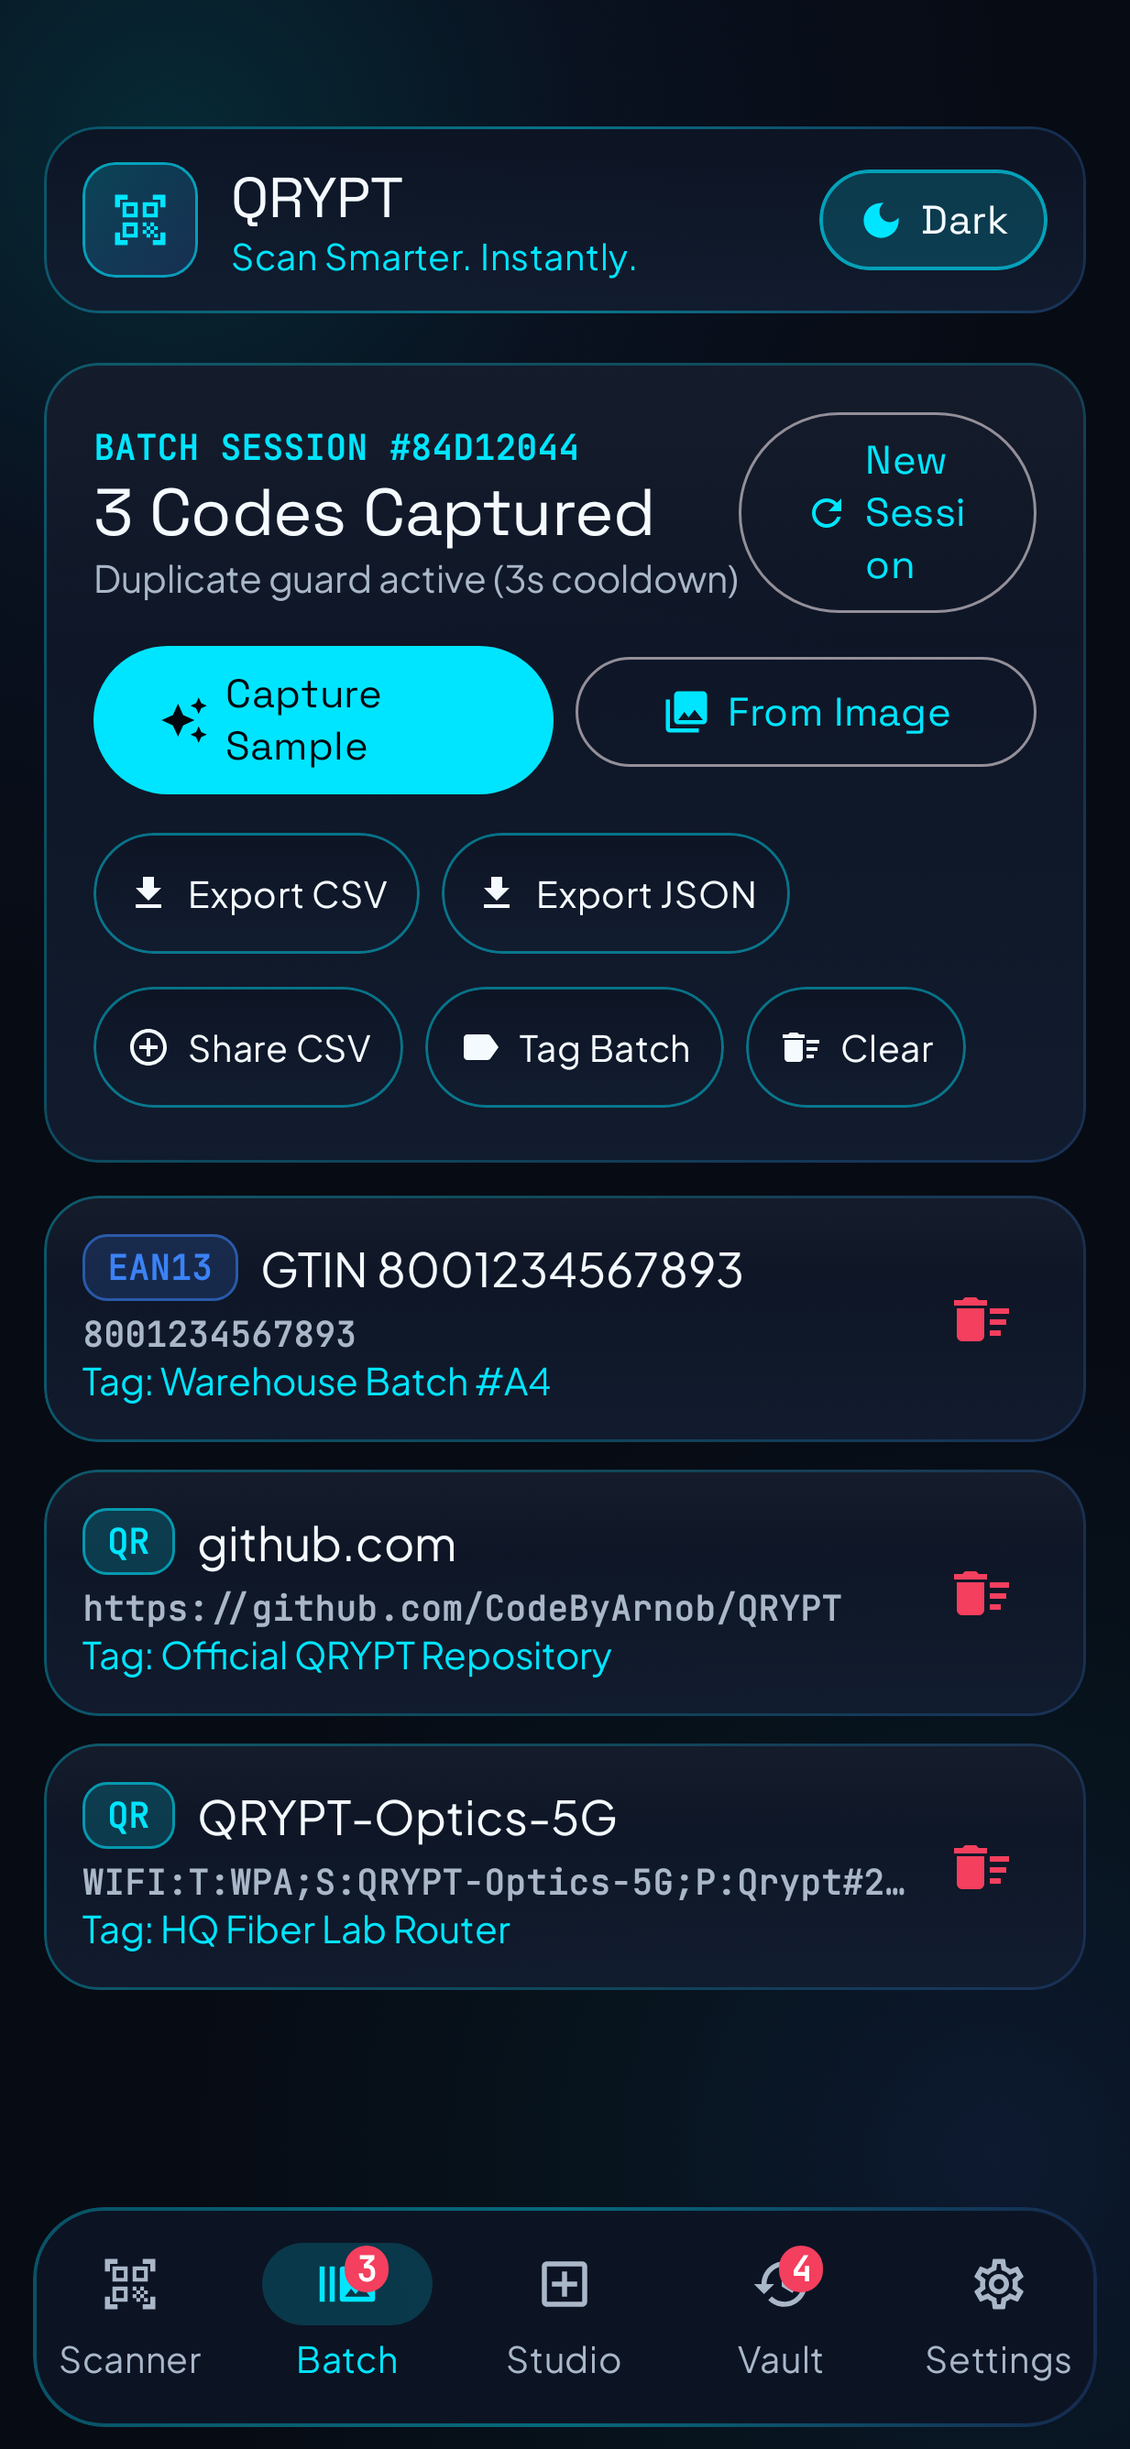
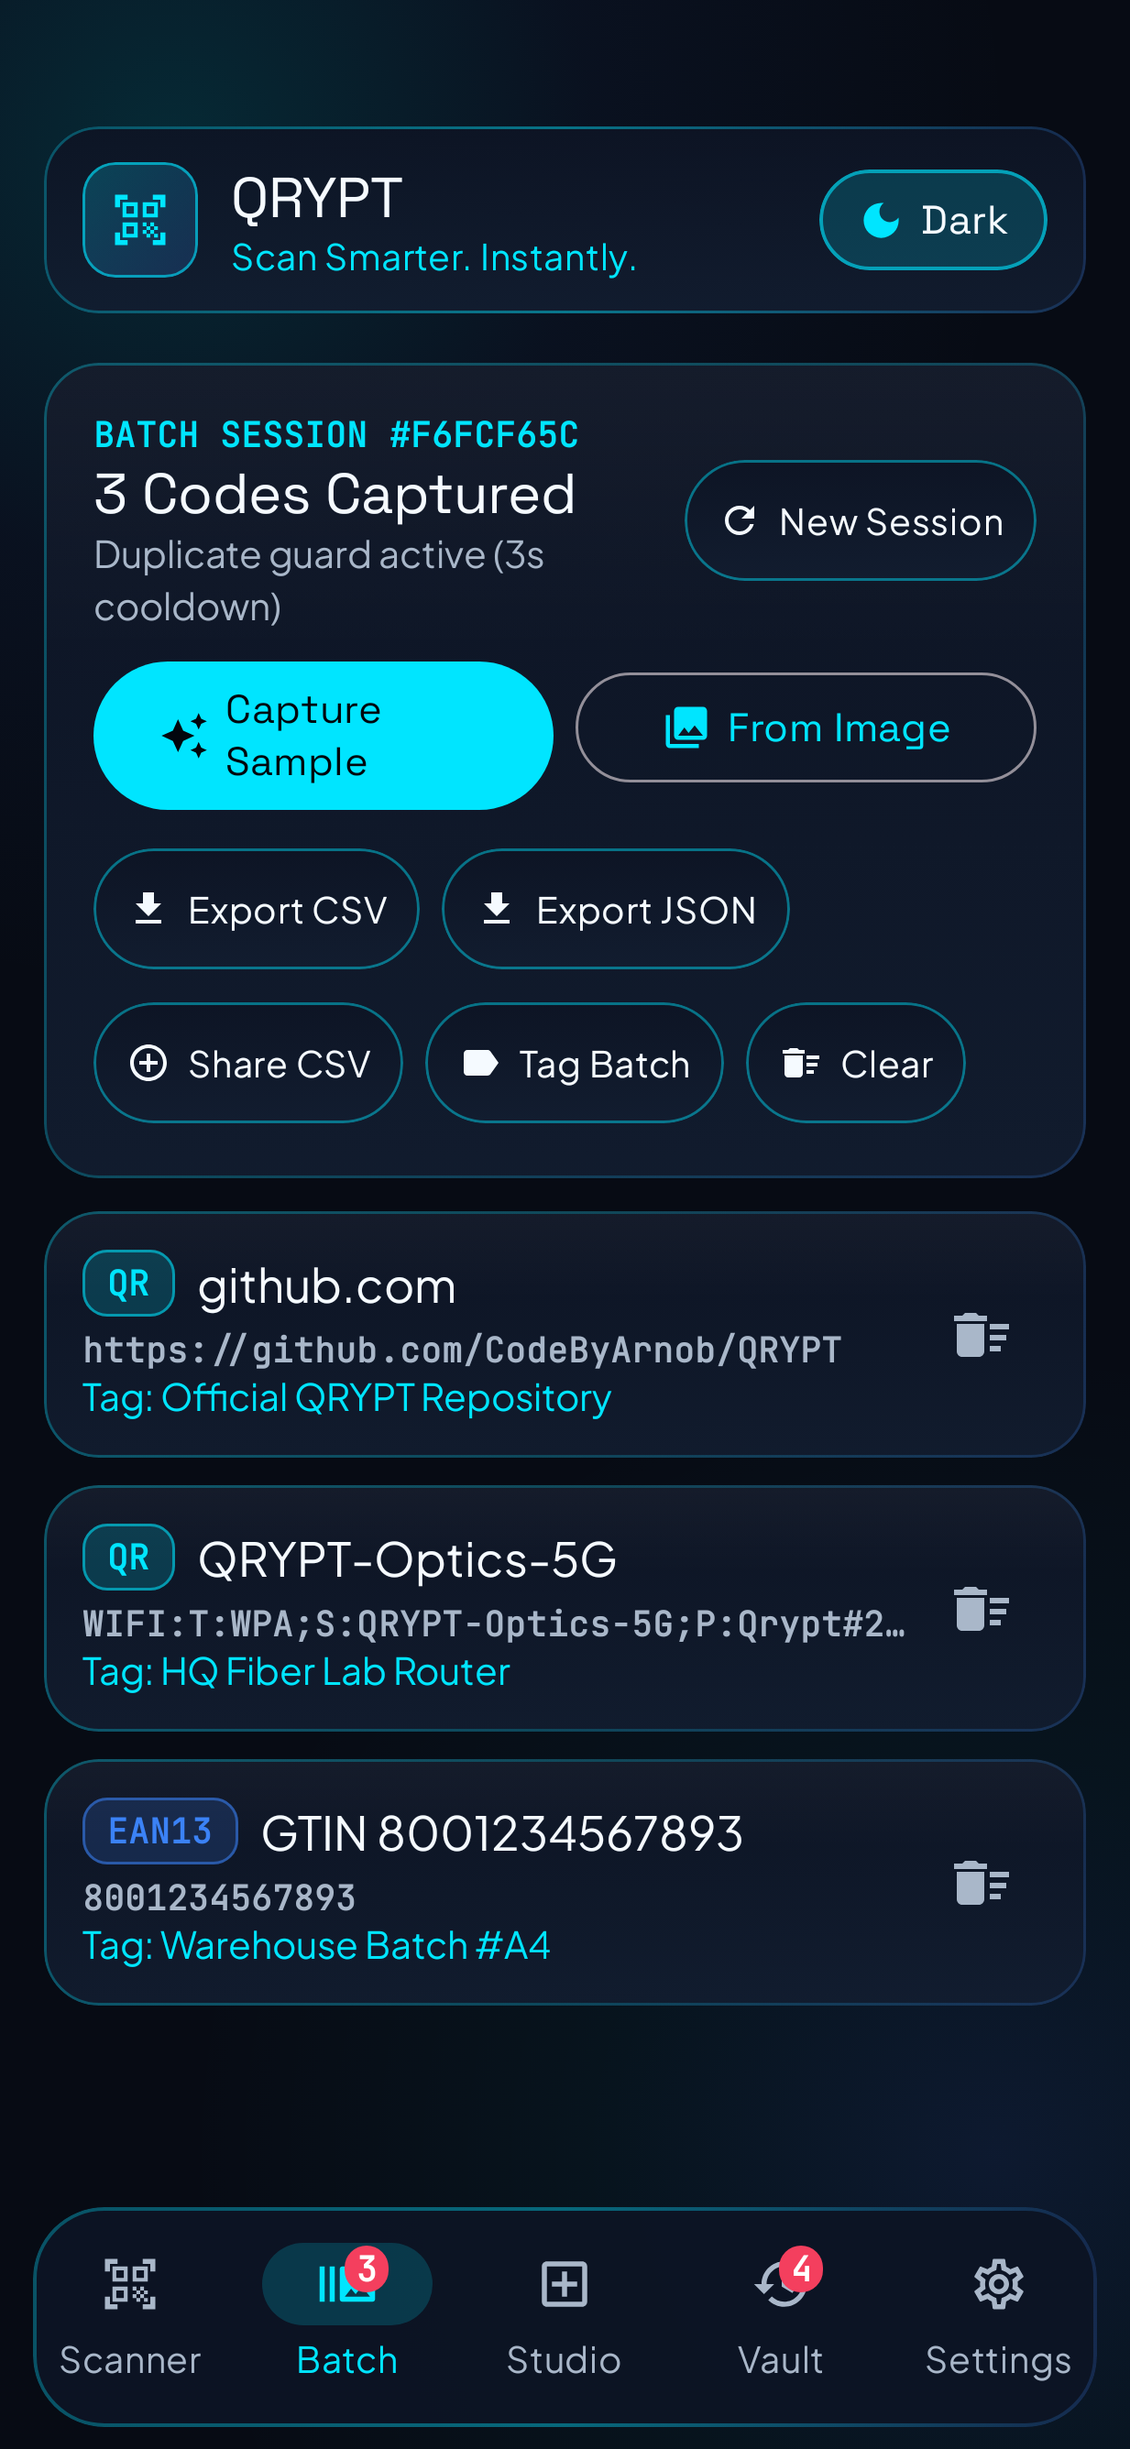
Refine History Vault card hierarchy, warning badge styling, and screenshot assets

diff --git a/app/src/main/java/com/example/ui/screens/HistoryVaultScreen.kt b/app/src/main/java/com/example/ui/screens/HistoryVaultScreen.kt
@@ -129,16 +129,18 @@ fun HistoryVaultScreen(
                     horizontalArrangement = Arrangement.SpaceBetween,
                     verticalAlignment = Alignment.CenterVertically
                 ) {
-                    Column {
+                    Column(modifier = Modifier.weight(1f)) {
                         Text(
                             text = "LOCAL OPTICAL VAULT",
                             style = MaterialTheme.typography.labelSmall,
-                            color = glass.primaryAccent
+                            color = glass.primaryAccent,
+                            maxLines = 1
                         )
                         Text(
                             text = "${filteredRecords.size} of $allRecordsCount Records",
-                            style = MaterialTheme.typography.headlineMedium,
-                            fontWeight = FontWeight.Bold
+                            style = MaterialTheme.typography.titleLarge,
+                            fontWeight = FontWeight.Bold,
+                            maxLines = 1
                         )
                     }
 
@@ -159,19 +161,6 @@ fun HistoryVaultScreen(
                                     exportJsonLauncher.launch("qrypt_vault_export.json")
                                 },
                                 modifier = Modifier.testTag("vault_export_json_button")
-                            )
-                            LiquidGlassPill(
-                                text = "Share",
-                                icon = Icons.Default.Share,
-                                onClick = {
-                                    val json = ScanRepository.exportToJson(filteredRecords)
-                                    ActionIntentHelper.shareExportFile(
-                                        context = context,
-                                        content = json,
-                                        filename = "qrypt_vault_export.json",
-                                        mimeType = "application/json"
-                                    )
-                                }
                             )
                         }
                     }
@@ -292,8 +281,9 @@ private fun VaultRecordCard(
 ) {
     val glass = LocalLiquidGlass.current
     val timeFormatted = remember(record.timestamp) {
-        SimpleDateFormat("MMM d • HH:mm", Locale.US).format(Date(record.timestamp))
+        SimpleDateFormat("MMM d, HH:mm", Locale.US).format(Date(record.timestamp))
     }
+    val sourceLabel = if (record.isGenerated) "Studio" else "Scanned"
 
     LiquidGlassCard(
         onClick = onClick,
@@ -309,16 +299,16 @@ private fun VaultRecordCard(
             ) {
                 Box(
                     modifier = Modifier
-                        .size(42.dp)
+                        .size(40.dp)
                         .clip(CircleShape)
-                        .background(glass.primaryAccent.copy(alpha = 0.16f)),
+                        .background(glass.primaryAccent.copy(alpha = 0.14f)),
                     contentAlignment = Alignment.Center
                 ) {
                     Icon(
                         imageVector = iconForPayloadType(record.payloadType),
                         contentDescription = record.payloadType.displayName,
                         tint = glass.primaryAccent,
-                        modifier = Modifier.size(22.dp)
+                        modifier = Modifier.size(20.dp)
                     )
                 }
                 Spacer(modifier = Modifier.width(12.dp))
@@ -329,17 +319,14 @@ private fun VaultRecordCard(
                     ) {
                         FormatBadge(format = record.format)
                         Text(
-                            text = if (record.isGenerated) "Studio" else "Scanned",
+                            text = "$sourceLabel • $timeFormatted",
                             style = MaterialTheme.typography.labelSmall,
-                            color = glass.textSecondary
-                        )
-                        Text(
-                            text = "• $timeFormatted",
-                            style = MaterialTheme.typography.labelSmall,
-                            color = glass.textSecondary
+                            color = glass.textSecondary,
+                            maxLines = 1,
+                            overflow = TextOverflow.Ellipsis
                         )
                     }
-                    Spacer(modifier = Modifier.height(2.dp))
+                    Spacer(modifier = Modifier.height(3.dp))
                     Text(
                         text = record.primaryTitle,
                         style = MaterialTheme.typography.titleMedium,
@@ -356,38 +343,53 @@ private fun VaultRecordCard(
                     )
                 }
 
-                IconButton(
-                    onClick = onToggleFavorite,
-                    modifier = Modifier.testTag("vault_fav_${record.id}")
+                Spacer(modifier = Modifier.width(6.dp))
+                Row(
+                    verticalAlignment = Alignment.CenterVertically,
+                    horizontalArrangement = Arrangement.spacedBy(0.dp)
                 ) {
-                    Icon(
-                        imageVector = if (record.isFavorite) Icons.Default.Bookmark else Icons.Default.BookmarkBorder,
-                        contentDescription = "Favorite",
-                        tint = if (record.isFavorite) glass.primaryAccent else glass.textSecondary
-                    )
-                }
-                IconButton(onClick = onCopy) {
-                    Icon(
-                        imageVector = Icons.Default.ContentCopy,
-                        contentDescription = "Copy",
-                        tint = glass.textSecondary,
-                        modifier = Modifier.size(18.dp)
-                    )
-                }
-                IconButton(onClick = onDelete) {
-                    Icon(
-                        imageVector = Icons.Default.DeleteOutline,
-                        contentDescription = "Delete",
-                        tint = DangerCrimson,
-                        modifier = Modifier.size(20.dp)
-                    )
+                    IconButton(
+                        onClick = onToggleFavorite,
+                        modifier = Modifier
+                            .size(32.dp)
+                            .testTag("vault_fav_${record.id}")
+                    ) {
+                        Icon(
+                            imageVector = if (record.isFavorite) Icons.Default.Bookmark else Icons.Default.BookmarkBorder,
+                            contentDescription = "Favorite",
+                            tint = if (record.isFavorite) glass.primaryAccent else glass.textSecondary,
+                            modifier = Modifier.size(18.dp)
+                        )
+                    }
+                    IconButton(
+                        onClick = onCopy,
+                        modifier = Modifier.size(32.dp)
+                    ) {
+                        Icon(
+                            imageVector = Icons.Default.ContentCopy,
+                            contentDescription = "Copy",
+                            tint = glass.textSecondary,
+                            modifier = Modifier.size(16.dp)
+                        )
+                    }
+                    IconButton(
+                        onClick = onDelete,
+                        modifier = Modifier.size(32.dp)
+                    ) {
+                        Icon(
+                            imageVector = Icons.Default.DeleteOutline,
+                            contentDescription = "Delete",
+                            tint = glass.textSecondary,
+                            modifier = Modifier.size(18.dp)
+                        )
+                    }
                 }
             }
 
             if (record.securityRisk != SecurityRiskLevel.SAFE || record.customNotes.isNotBlank()) {
                 Row(
                     modifier = Modifier.fillMaxWidth(),
-                    horizontalArrangement = Arrangement.SpaceBetween,
+                    horizontalArrangement = Arrangement.spacedBy(10.dp),
                     verticalAlignment = Alignment.CenterVertically
                 ) {
                     if (record.securityRisk != SecurityRiskLevel.SAFE) {
@@ -396,10 +398,11 @@ private fun VaultRecordCard(
                     if (record.customNotes.isNotBlank()) {
                         Text(
                             text = "Note: ${record.customNotes}",
-                            style = MaterialTheme.typography.bodySmall,
-                            color = glass.primaryAccent,
+                            style = MaterialTheme.typography.labelSmall,
+                            color = glass.textSecondary,
                             maxLines = 1,
-                            overflow = TextOverflow.Ellipsis
+                            overflow = TextOverflow.Ellipsis,
+                            modifier = Modifier.weight(1f, fill = false)
                         )
                     }
                 }

diff --git a/app/src/main/java/com/example/ui/screens/BatchScannerScreen.kt b/app/src/main/java/com/example/ui/screens/BatchScannerScreen.kt
@@ -174,7 +174,7 @@ fun BatchScannerScreen(
                     horizontalArrangement = Arrangement.SpaceBetween,
                     verticalAlignment = Alignment.CenterVertically
                 ) {
-                    Column {
+                    Column(modifier = Modifier.weight(1f)) {
                         Text(
                             text = "BATCH SESSION #$batchSessionId",
                             style = MaterialTheme.typography.labelSmall,
@@ -183,7 +183,7 @@ fun BatchScannerScreen(
                         )
                         Text(
                             text = "${batchRecords.size} Codes Captured",
-                            style = MaterialTheme.typography.headlineMedium,
+                            style = MaterialTheme.typography.titleLarge,
                             fontWeight = FontWeight.Bold
                         )
                         Text(
@@ -197,14 +197,12 @@ fun BatchScannerScreen(
                         )
                     }
 
-                    OutlinedButton(
+                    LiquidGlassPill(
+                        text = "New Session",
+                        icon = Icons.Default.Refresh,
                         onClick = onStartNewSession,
                         modifier = Modifier.testTag("batch_new_session_button")
-                    ) {
-                        Icon(Icons.Default.Refresh, contentDescription = null, modifier = Modifier.size(16.dp))
-                        Spacer(modifier = Modifier.width(6.dp))
-                        Text("New Session")
-                    }
+                    )
                 }
 
                 // Rapid Batch Input Controls
@@ -386,7 +384,7 @@ fun BatchScannerScreen(
                                 Icon(
                                     imageVector = Icons.Default.DeleteSweep,
                                     contentDescription = "Remove Item",
-                                    tint = DangerCrimson
+                                    tint = glass.textSecondary
                                 )
                             }
                         }

diff --git a/app/src/main/java/com/example/ui/components/LiquidGlassComponents.kt b/app/src/main/java/com/example/ui/components/LiquidGlassComponents.kt
@@ -267,33 +267,35 @@ fun SecurityRiskBadge(
     riskLevel: SecurityRiskLevel,
     modifier: Modifier = Modifier
 ) {
+    val glass = LocalLiquidGlass.current
     val (color, icon) = when (riskLevel) {
         SecurityRiskLevel.SAFE -> SafeEmerald to Icons.Default.CheckCircle
         SecurityRiskLevel.CAUTION -> CautionAmber to Icons.Default.WarningAmber
-        SecurityRiskLevel.SUSPICIOUS -> DangerCrimson to Icons.Default.WarningAmber
+        SecurityRiskLevel.SUSPICIOUS -> CautionAmber.copy(alpha = 0.9f) to Icons.Default.WarningAmber
     }
 
     Surface(
         modifier = modifier,
-        shape = CircleShape,
-        color = color.copy(alpha = 0.18f),
-        border = BorderStroke(1.dp, color.copy(alpha = 0.55f))
+        shape = RoundedCornerShape(8.dp),
+        color = color.copy(alpha = if (glass.isDark) 0.10f else 0.08f),
+        border = BorderStroke(1.dp, color.copy(alpha = 0.28f))
     ) {
         Row(
-            modifier = Modifier.padding(horizontal = 11.dp, vertical = 5.dp),
+            modifier = Modifier.padding(horizontal = 8.dp, vertical = 3.dp),
             verticalAlignment = Alignment.CenterVertically
         ) {
             Icon(
                 imageVector = icon,
                 contentDescription = riskLevel.label,
                 tint = color,
-                modifier = Modifier.size(15.dp)
+                modifier = Modifier.size(13.dp)
             )
-            Spacer(modifier = Modifier.width(6.dp))
+            Spacer(modifier = Modifier.width(5.dp))
             Text(
                 text = riskLevel.label,
-                style = MaterialTheme.typography.labelMedium,
-                color = color
+                style = MaterialTheme.typography.labelSmall,
+                color = color,
+                maxLines = 1
             )
         }
     }

diff --git a/app/src/test/java/com/example/ExampleRobolectricTest.kt b/app/src/test/java/com/example/ExampleRobolectricTest.kt
@@ -224,6 +224,23 @@ class ExampleRobolectricTest {
         )
 
         val activeBatchId = viewModel.activeBatchSessionId.value
+        scanRepo.recordScan(
+            rawValue = "https://bit.ly/qrypt-v1-release",
+            format = BarcodeFormatType.QR_CODE,
+            isGenerated = false,
+            customNotes = "Shortened Release Link",
+            duplicatePreventionEnabled = false
+        )
+
+        scanRepo.recordScan(
+            rawValue = "8001234567893",
+            format = BarcodeFormatType.EAN_13,
+            isGenerated = false,
+            batchSessionId = activeBatchId,
+            customNotes = "Warehouse Batch #A4",
+            duplicatePreventionEnabled = false
+        )
+
         val wifiRecord = scanRepo.recordScan(
             rawValue = "WIFI:T:WPA;S:QRYPT-Optics-5G;P:Qrypt#2026!Secure;H:false;;",
             format = BarcodeFormatType.QR_CODE,
@@ -243,23 +260,6 @@ class ExampleRobolectricTest {
             duplicatePreventionEnabled = false
         )!!
         scanRepo.toggleFavorite(urlRecord.id, true)
-
-        scanRepo.recordScan(
-            rawValue = "8001234567893",
-            format = BarcodeFormatType.EAN_13,
-            isGenerated = false,
-            batchSessionId = activeBatchId,
-            customNotes = "Warehouse Batch #A4",
-            duplicatePreventionEnabled = false
-        )
-
-        scanRepo.recordScan(
-            rawValue = "http://secure-login@xn--pple-43d.top/verify-session",
-            format = BarcodeFormatType.QR_CODE,
-            isGenerated = false,
-            customNotes = "Quarantined Phishing Sample",
-            duplicatePreventionEnabled = false
-        )
 
         var capturedView: View? = null
         composeTestRule.setContent {

diff --git a/docs/index.html b/docs/index.html
@@ -810,9 +810,12 @@
       background: #050810;
       border: 1px solid var(--border-card);
       border-radius: var(--radius-md);
-      padding: 16px 18px;
+      padding: 14px 16px;
       overflow-x: auto;
-      font-size: 0.84rem;
+      white-space: pre-wrap;
+      word-break: break-all;
+      font-size: 0.82rem;
+      line-height: 1.55;
       color: #D6E4FF;
       margin-top: 12px;
     }
@@ -1599,12 +1602,12 @@
 
           <div class="step-card">
             <span class="step-num">2</span>
-            <h3>Verify SHA-256 Checksum</h3>
+            <h3>Verify SHA-256 File Checksum (Optional)</h3>
             <p>
-              Every GitHub release includes <code>SHA256SUMS.txt</code> so you can verify package integrity before installing:
+              Every GitHub release includes a public <code>SHA256SUMS.txt</code> file fingerprint (not a private key) so users can verify the downloaded APK was not corrupted:
             </p>
             <pre class="code-box"><code>sha256sum QRYPT-v1.0.0-release.apk
-# Expected SHA-256:
+# Public APK File Checksum (SHA-256):
 # 071bc524d78637517b6ce14f6c471b2421497f79a5cfacfaaf2041bc048b9c23</code></pre>
           </div>
 

diff --git a/app/src/main/java/com/example/data/local/ScanRecordDao.kt b/app/src/main/java/com/example/data/local/ScanRecordDao.kt
@@ -9,13 +9,13 @@ import kotlinx.coroutines.flow.Flow
 @Dao
 interface ScanRecordDao {
 
-    @Query("SELECT * FROM scan_records ORDER BY timestamp DESC")
+    @Query("SELECT * FROM scan_records ORDER BY timestamp DESC, id DESC")
     fun observeAllRecords(): Flow<List<ScanRecordEntity>>
 
-    @Query("SELECT * FROM scan_records ORDER BY timestamp DESC")
+    @Query("SELECT * FROM scan_records ORDER BY timestamp DESC, id DESC")
     suspend fun getAllRecordsSnapshot(): List<ScanRecordEntity>
 
-    @Query("SELECT * FROM scan_records WHERE rawValue = :rawValue ORDER BY timestamp DESC LIMIT 1")
+    @Query("SELECT * FROM scan_records WHERE rawValue = :rawValue ORDER BY timestamp DESC, id DESC LIMIT 1")
     suspend fun findLatestByRawValue(rawValue: String): ScanRecordEntity?
 
     @Insert(onConflict = OnConflictStrategy.REPLACE)
